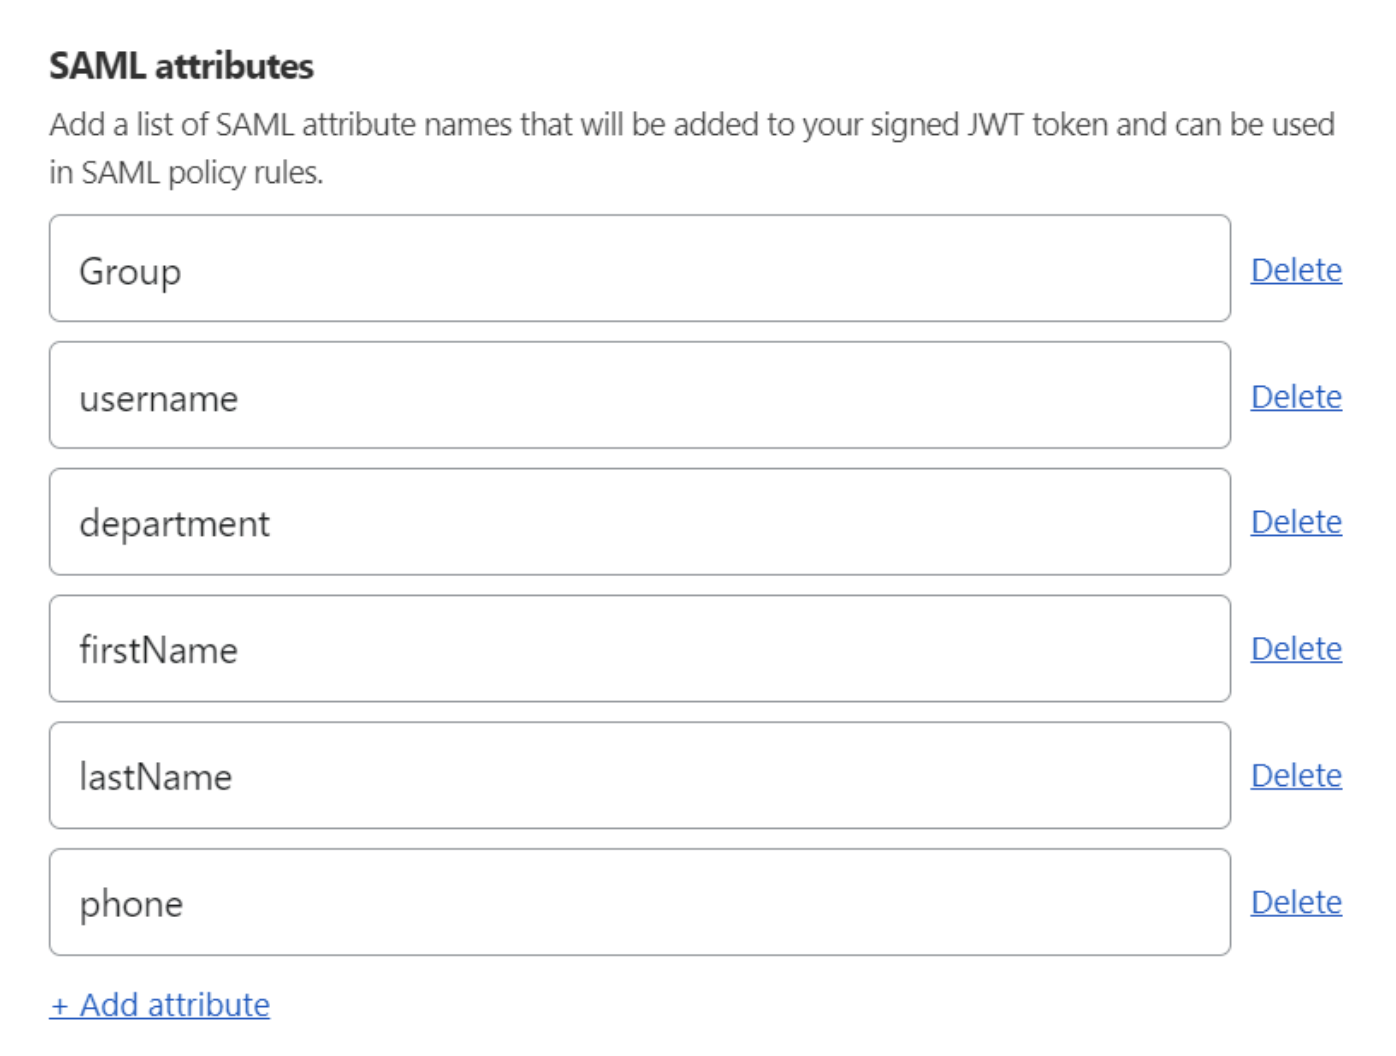
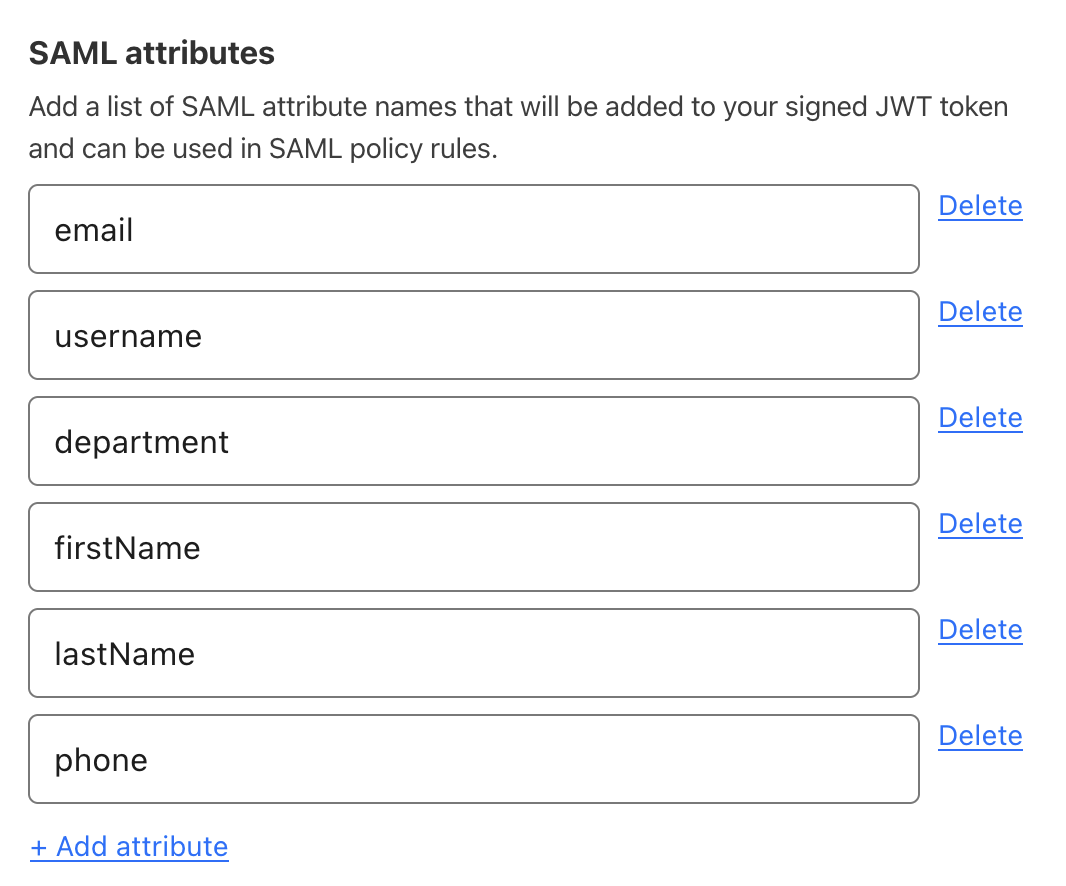
pcx-7187 (#9444)

diff --git a/content/cloudflare-one/identity/idp-integration/okta-saml.md b/content/cloudflare-one/identity/idp-integration/okta-saml.md
@@ -12,13 +12,13 @@ Cloudflare Zero Trust can integrate SAML with Okta as an identity provider.
 
 To set up SAML with Okta as your identity provider:
 
-1. On your Okta admin dashboard, navigate to **Applications** > **Applications**.
+1. On your Okta admin dashboard, go to **Applications** > **Applications**.
 
-2. Click **Create App Integration**.
+2. Select **Create App Integration**.
 
-3. In the pop-up dialog, select **SAML 2.0** and click **Next**.
+3. In the pop-up dialog, select **SAML 2.0** and then elect **Next**.
 
-4. Enter an app name and click **Next**.
+4. Enter an app name and select **Next**.
 
    ![Entering your Zero Trust callback URL into Okta](/cloudflare-one/static/documentation/identity/okta-saml/okta-saml-1.png)
 
@@ -39,27 +39,27 @@ To set up SAML with Okta as your identity provider:
 
 ![Configuring attribute statements in Okta](/cloudflare-one/static/documentation/identity/okta-saml/okta-saml-2.png)
 
-8. Click **Next**.
+8. Select **Next**.
 
 9. Select **I’m an Okta customer adding an internal app** and check **This is an internal app that we have created**.
 
 ![Configuring feedback options in Okta](/cloudflare-one/static/documentation/identity/okta-saml/okta-saml-3.png)
 
-9. Click **Finish**.
+9. Select **Finish**.
 
-10. In the **Assignments** tab, click **Assign** and assign individuals or groups you want to grant access to.
+10. In the **Assignments** tab, select **Assign** and assign individuals or groups you want to grant access to.
 
-11. Click **Done**. The assigned individuals and groups will display in the **Assignments** tab.
+11. Select **Done**. The assigned individuals and groups will display in the **Assignments** tab.
 
 ![Assigning individuals and groups to Okta application](/cloudflare-one/static/documentation/identity/okta-saml/okta-saml-4.png)
 
-12. To retrieve the SAML provider information, navigate to the **Sign On** and click **View Setup Instructions**. A new page will open showing the **Identity Provider Single Sign-on URL**, **Identity Provider Issuer**, and **X.509 Certificate**. Save this information for configuring your Zero Trust settings.
+12. To retrieve the SAML provider information, go to the **Sign On** tab and select **View Setup Instructions**. A new page will open showing the **Identity Provider Single Sign-on URL**, **Identity Provider Issuer**, and **X.509 Certificate**. Save this information for configuring your Zero Trust settings.
 
 ![Retrieving SAML provider information in Okta](/cloudflare-one/static/documentation/identity/okta-saml/okta-saml-5.png)
 
-13. In [Zero Trust](https://one.dash.cloudflare.com), navigate to **Settings** > **Authentication**.
+13. In [Zero Trust](https://one.dash.cloudflare.com), go to **Settings** > **Authentication**.
 
-14. Click **Add new** under **Login Methods**, and select _SAML_.
+14. Select **Add new** under **Login Methods**, and select _SAML_.
 
 15. Fill in the following information:
 
@@ -70,13 +70,13 @@ To set up SAML with Okta as your identity provider:
 
 16. (Recommended) Enable **Sign SAML authentication request**.
 
-17. (Recommended) Under **SAML attributes**, enter `email` and `name`. The `name` attribute is required if you want to use Okta groups.
+17. (Recommended) Under **SAML attributes**, add the `email` and `groups` attributes. The `groups` attribute is required if you want to create policies based on [Okta groups](/cloudflare-one/policies/filtering/identity-selectors/#okta-saml).
 
 ![Adding optional SAML attributes in Zero Trust](/cloudflare-one/static/documentation/identity/okta-saml/okta-saml-6.png)
 
-18. Click **Save**.
+18. Select **Save**.
 
-To test that your connection is working, navigate to **Settings** > **Authentication** > **Login methods** and click **Test** next to Okta. A success response should return the configured SAML attributes.
+To test that your connection is working, go to **Settings** > **Authentication** > **Login methods** and select **Test** next to Okta. A success response should return the configured SAML attributes.
 
 {{<Aside type="warning">}}
 

diff --git a/content/cloudflare-one/policies/filtering/identity-selectors.md b/content/cloudflare-one/policies/filtering/identity-selectors.md
@@ -107,17 +107,21 @@ If you enabled user and group synchronization with [SCIM](/cloudflare-one/identi
 
 ### Okta (OIDC)
 
+If you added Okta as an [OIDC provider](/cloudflare-one/identity/idp-integration/okta/), use the User Group Names selector:
+
 | Selector         | Value       |
 | ---------------- | ----------- |
 | User Group Names | `Marketing` |
 
-The Okta IdP supports user and group synchronization with [SCIM](/cloudflare-one/identity/idp-integration/okta/#synchronize-users-and-groups).
+The Okta OIDC integration supports user and group synchronization with [SCIM](/cloudflare-one/identity/idp-integration/okta/#synchronize-users-and-groups).
 
 ### Okta (SAML)
 
+If you added Okta as a [SAML provider](/cloudflare-one/identity/idp-integration/okta-saml/), use the SAML Attributes selector:
+
 | Selector        | Attribute name | Attribute value |
 | --------------- | -------------- | --------------- |
-| SAML Attributes | `name`         | `Marketing`     |
+| SAML Attributes | `groups`       | `Marketing`     |
 
 ### Generic SAML IdP
 
@@ -125,7 +129,7 @@ For a [generic SAML provider](/cloudflare-one/identity/idp-integration/generic-s
 
 | Selector        | Attribute name | Attribute value |
 | --------------- | -------------- | --------------- |
-| SAML Attributes | `name`         | `Marketing`     |
+| SAML Attributes | `department`    | `Marketing`     |
 
 ### Generic OIDC IdP
 
